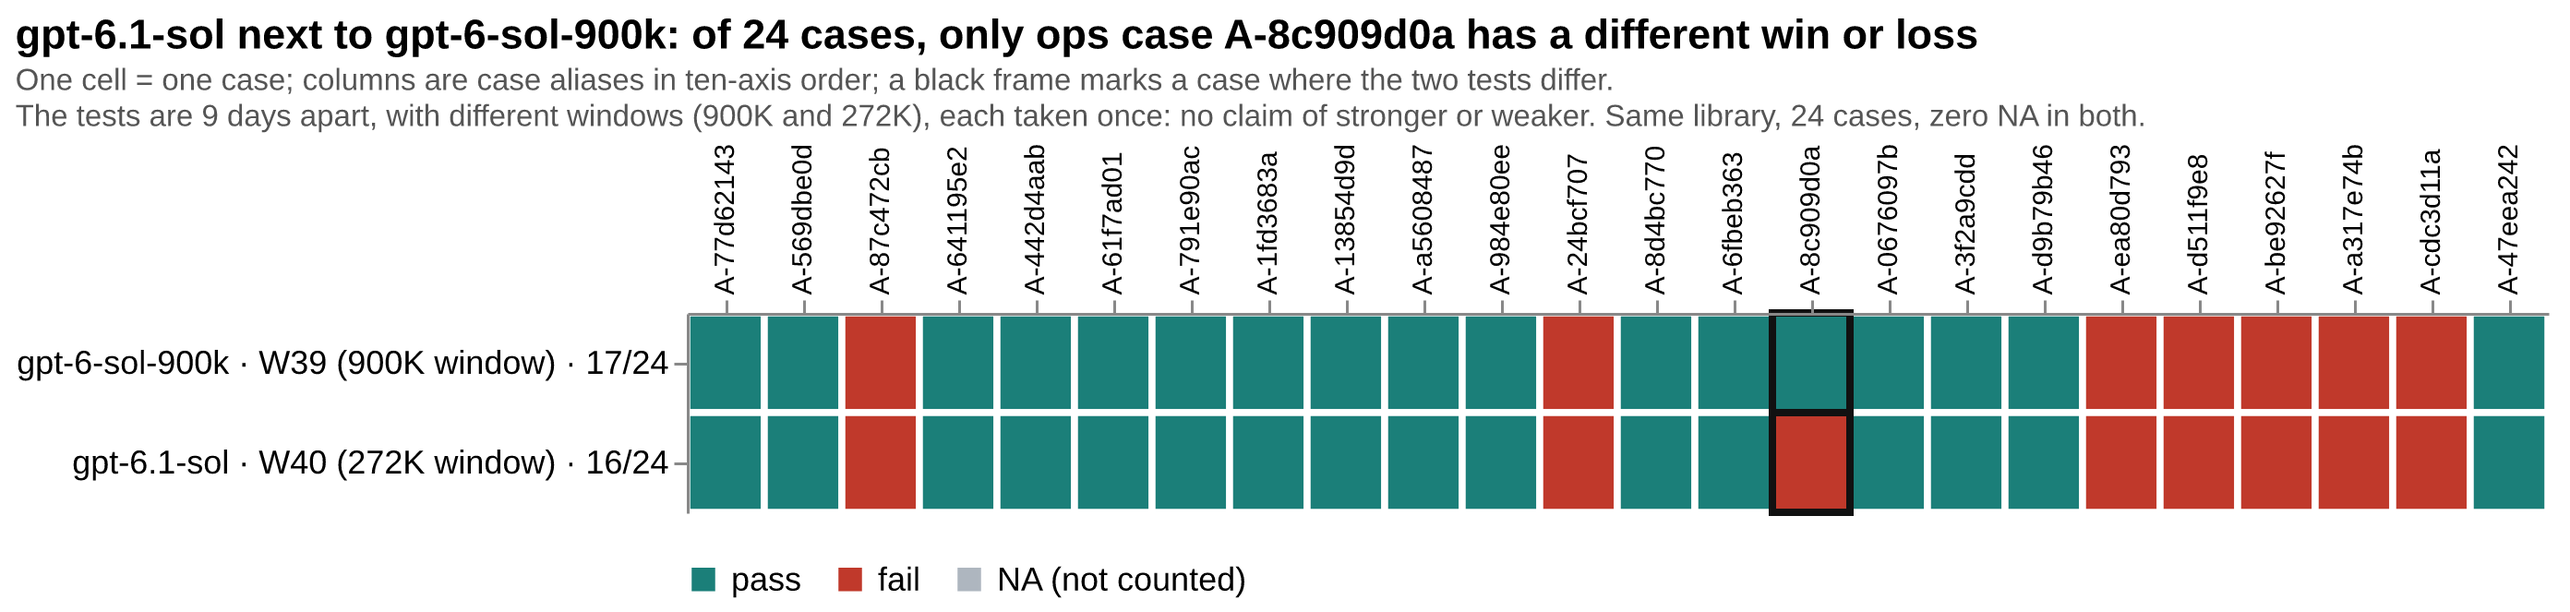
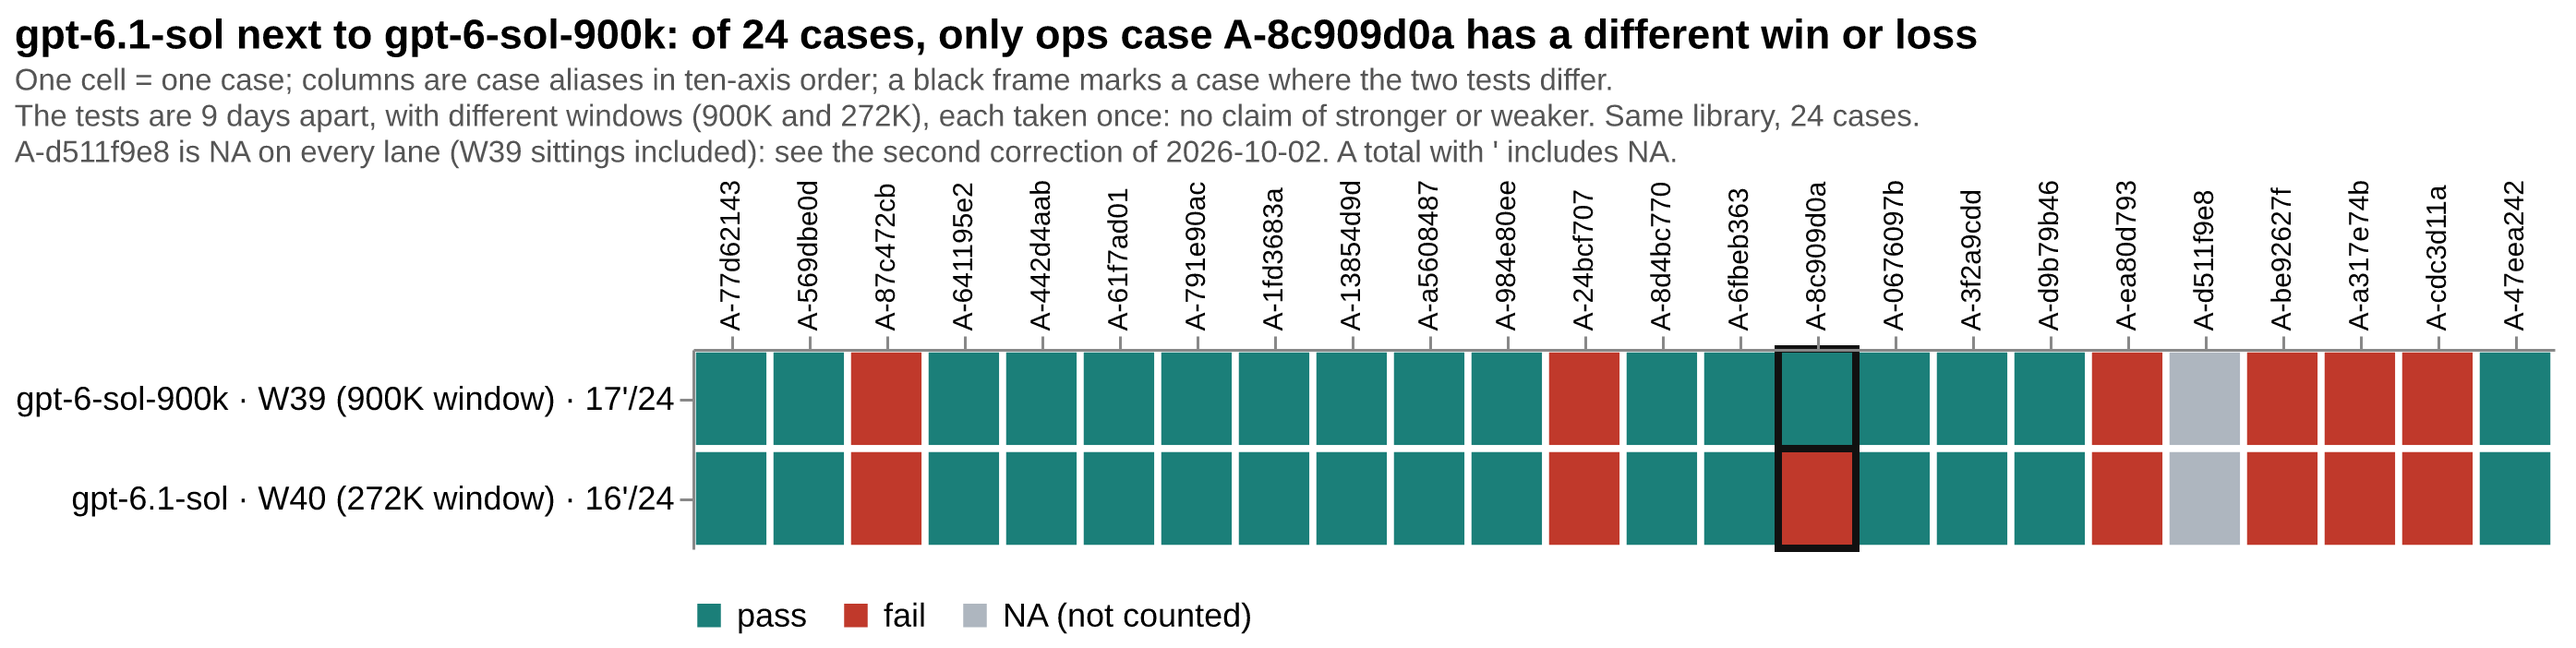
Correction 2026-10-02 (second): A-d511f9e8 is NA on every lane; W40 tables, figure and README updated
Pass counts and the denominator do not change; every total carries the apostrophe.

Changed region(s): [[0.0, 0.0302, 1.0, 0.8748], [0.25, 0.9351, 0.5, 0.9653]]

diff --git a/results/2026-W40.en.md b/results/2026-W40.en.md
@@ -1,15 +1,15 @@
 # 2026-W40 — gpt-6.1-sol, first full-library test
 
-**Summary**: gpt-6.1-sol took the full AMBER library (24 cases / 27 papers) for the first time on 2026-10-02, on the OpenAI Codex subscription lane at the high band. Result: **16 wins · 8 losses · 0 NA**, so **16/24**, with nothing on hold.
+**Summary**: gpt-6.1-sol took the full AMBER library (24 cases / 27 papers) for the first time on 2026-10-02, on the OpenAI Codex subscription lane at the high band. Result: **16 wins · 7 losses · 1 NA**, shown on the board as **16'/24**. The one NA is defense case A-d511f9e8: it is now NA on every lane (the exam-room grading of this case has problems; see the [correction](https://github.com/getaskclaw/amber/blob/main/docs/corrections-2026-10-02-a-d511f9e8.en.md)), and no pass count changes. Apart from that, nothing is on hold.
 
-Its predecessor on the same lane, gpt-6-sol-900k, scored 17/24 in W39 (see [W39](2026-W39.en.md)). The two tests differ in the win or loss of only one case: ops case A-8c909d0a passed in W39 and loses here at 3/7. The context window also differs: this test used the 272K basic window, while gpt-6-sol-900k used the 900K variant. **Read the two side by side; this page does not say 6.1 is stronger or weaker than 6.**
+Its predecessor on the same lane, gpt-6-sol-900k, was published at 17/24 in W39 (see [W39](2026-W39.en.md); 17'/24 with A-d511f9e8 now NA). The two tests differ in the win or loss of only one case: ops case A-8c909d0a passed in W39 and loses here at 3/7. The context window also differs: this test used the 272K basic window, while gpt-6-sol-900k used the 900K variant. **Read the two side by side; this page does not say 6.1 is stronger or weaker than 6.**
 
 - **Strengths**: coding 5/6 and delivery 3/3; requirements, convergence and UI all pass.
 - **Weak spots**: no passes on vision, defense or attribution, and two ops cases lost (A-24bcf707, A-8c909d0a). Review passes one case (A-47eea242); on the other, A-cdc3d11a, the fault-finding score is −1, with very few false alarms.
 
 This is a subscription lane with no price sheet, so no dollar cost is reported.
 
-![W40 case by case: gpt-6.1-sol and gpt-6-sol-900k (W39)](assets/2026-W40-strip.en.png?v=20261002)
+![W40 case by case: gpt-6.1-sol and gpt-6-sol-900k (W39)](assets/2026-W40-strip.en.png?v=20261002b)
 
 中文：[2026-W40.md](2026-W40.md)
 
@@ -27,7 +27,7 @@ This is a subscription lane with no price sheet, so no dollar cost is reported.
 | harness | AMBER agentic harness (Hermes); clean-room bench profile, offline container, a new working folder for each case, no fallback chain, at most 2 at a time |
 | wire verification | all sessions matched the model: 38 sessions (including two re-taken cases); zero 429 |
 | case set | AMBER full library v2026-09: **24 cases / 27 papers** (the requirements case is one case with four variants sharing one bundle); bundle hashes match the [amber hash-index](https://github.com/getaskclaw/amber) |
-| scoring | required checks only; a multi-variant case passes only if every variant passes; zero NA in this issue (nothing void, nothing on hold) |
+| scoring | required checks only; a multi-variant case passes only if every variant passes; one NA in this issue: A-d511f9e8 (on hold for every lane); nothing void, nothing else on hold |
 | cost | subscription quota lane, no price sheet, no dollar cost; the weekly quota went from 0% to about 2%; ≈10.37M tokens in total |
 | latency | median 179 s per case, p90 793 s, 7561 s in total |
 
@@ -58,12 +58,12 @@ Cases are listed by public alias; check them against the [amber hash-index](http
 | A-3f2a9cdd | Convergence | 4880adbea261 | ✓ |
 | A-d9b79b46 | UI | d6d63130ecc6 | ✓ 12/12 |
 | A-ea80d793 | Vision | 1d69841b029e | ✗ fault-finding 0 |
-| A-d511f9e8 | Defense | f725082a2dc8 | ✗ 4/12 |
+| A-d511f9e8 | Defense | f725082a2dc8 | ⊘ NA (held, re-sit pending) |
 | A-be92627f | Defense | 6593829abdfa | ✗ 4/9 |
 | A-a317e74b | Attribution | e05970e7d7c9 | ✗ 14/15 |
 | A-cdc3d11a | Review | dbb207a3118d | ✗ fault-finding −1 |
 | A-47eea242 | Review | b4b8d4bb44e3 | ✓ fault-finding 4 |
-| **total** | | | **16/24 wins · 8 losses · 0 NA** |
+| **total** | | | **16/24 wins · 7 losses · 1 NA** |
 
 <!-- matrix:end -->
 
@@ -80,10 +80,10 @@ Cases are listed by public alias; check them against the [amber hash-index](http
 |  | Convergence | 1/1 | 1.00 |
 | Judging | UI | 1/1 | 1.00 |
 |  | Vision | 0/1 | 0.44 |
-|  | Defense | 0/2 | 0.39 |
+|  | Defense | 0/2 · 1 NA | 0.44 |
 |  | Attribution | 0/1 | 0.93 |
 |  | Review | 1/2 | 0.61 |
-| | **total** | **16/24** |  |
+| | **total** | **16'/24** |  |
 
 Two readings of the same papers. **Passes** = cases passed / cases on the axis; a case passes only when every required check passes. This is the [askclaw.dev](https://askclaw.dev/en/rank/) board metric. **Completion** = 0–1, prorated by required checks, so a failed case still earns the share it got right; review and vision are prorated from the fault-finding score. NA cases count in neither. Most axes hold one or two cases, so one case can move the reading.
 
@@ -91,11 +91,11 @@ Two readings of the same papers. **Passes** = cases passed / cases on the axis; 
 
 ## Side by side with gpt-6-sol-900k (W39)
 
-The W39 page is [2026-W39.en.md](2026-W39.en.md). The table below lists only the cases where the two tests differ. On the other 21 cases, both tests have the same win or loss.
+The W39 page is [2026-W39.en.md](2026-W39.en.md). The table below lists only the cases where the two tests differ. On the other 21 cases, both tests have the same win or loss (A-d511f9e8 is NA in both).
 
 | | gpt-6-sol-900k (W39, 900K window) | gpt-6.1-sol (W40, 272K window) |
 |---|---|---|
-| total | 17/24 | 16/24 |
+| total | 17'/24 (published as 17/24; A-d511f9e8 now NA) | 16'/24 |
 | A-8c909d0a (ops) | ✓ | ✗ 3/7 |
 | A-cdc3d11a (review) | ✗ fault-finding −0.5 | ✗ fault-finding −1 |
 | A-ea80d793 (vision) | ✗ fault-finding 1.0 | ✗ fault-finding 0.0 |
@@ -104,7 +104,7 @@ How to read it: the two tests are 9 days apart, with different windows, and each
 
 ## Findings
 
-1. **16/24 with nothing on hold, one case from the predecessor.** Of the 24 cases, only A-8c909d0a has a different win or loss from gpt-6-sol-900k (W39). The other 23 cases have the same result.
+1. **16'/24, nothing on hold apart from A-d511f9e8, one case from the predecessor.** Of the 24 cases, only A-8c909d0a has a different win or loss from gpt-6-sol-900k (W39). The other 23 cases have the same result.
 2. **On the judging side, review is the bright spot; vision, defense and attribution are still weak.** Review case A-47eea242 passes, and A-cdc3d11a scores −1, with very few false alarms; the three amber-claude lanes score −2 to −35 on that case (see [amber-claude W40](https://github.com/getaskclaw/amber-claude/blob/main/results/2026-W40.en.md), same day, same library). Attribution case A-a317e74b is 14/15, one check short, the same as gpt-6-sol-900k (W39). Vision case A-ea80d793 scores 0.0: the screenshot was delivered and 3 problems were found, but penalties cancel them out to 0.0, below the line. Defense cases: A-d511f9e8 4/12 and A-be92627f 4/9.
 3. **Two ops cases lost.** A-24bcf707 4/5 (gpt-6-sol-900k also failed it in W39), and A-8c909d0a 3/7 (passed in W39).
 4. **Coding case A-87c472cb is still 6/8.** Every lane falls into this one; gpt-6-sol-900k (W39) also scored 6/8.
@@ -122,4 +122,4 @@ How to read it: the two tests are 9 days apart, with different windows, and each
 
 ## Verdict
 
-gpt-6.1-sol @ OpenAI Codex subscription lane: 16/24 with nothing on hold. It is strong on the building side (coding 5/6, delivery 3/3, and requirements, convergence and UI all pass), and still weak on the judging side (no passes on vision, defense or attribution; review passes one case). Next to gpt-6-sol-900k (17/24 in W39), only one ops case differs, and the windows differ too (272K against 900K), so this page does not say 6.1 is stronger or weaker than 6. For work that looks at screenshots, defense work and attribution work, keep a person in the loop to check the result.
+gpt-6.1-sol @ OpenAI Codex subscription lane: 16'/24 with nothing on hold apart from A-d511f9e8. It is strong on the building side (coding 5/6, delivery 3/3, and requirements, convergence and UI all pass), and still weak on the judging side (no passes on vision, defense or attribution; review passes one case). Next to gpt-6-sol-900k (17'/24 in W39), only one ops case differs, and the windows differ too (272K against 900K), so this page does not say 6.1 is stronger or weaker than 6. For work that looks at screenshots, defense work and attribution work, keep a person in the loop to check the result.

diff --git a/README.en.md b/README.en.md
@@ -1,5 +1,7 @@
 # amber-gpt
 
+> ⚠ **Correction (2026-10-02, second)**: one defense-axis case, A-d511f9e8, is now NA on every lane (the exam room did not grade the file the candidate delivered, and the grader asks for something the task text does not say). The denominator and the **number of passed cases do not change**; every lane's total now carries `'`. In this repo's issue tables, read that cell as NA. Everything else stays as published; the [correction notice](https://github.com/getaskclaw/amber/blob/main/docs/corrections-2026-10-02-a-d511f9e8.en.md) governs.
+
 > Correction for 5.6-luna: W37 high base plus W39 high make-up; 16'/24 = 16 wins · 4 losses · 4 held. First public announcement of three exonerated_infra rulings, capability scores withheld; A-ea80d793 stays held. [Details](results/2026-W38-correction-luna-high.en.md). This does not change GPT-6 results. ' = contested (held for safety refusal) or invalid (infrastructure-related (test harness or scoring environment) cases: held, void or awaiting re-scoring); neither counts as a win or a loss. Every lane with NA carries an apostrophe, including frozen display rows; a hold does not settle the cause.
 
 Weekly public benchmark results of GPT-family models (across reasoning-effort band (the thinking-effort setting)s) on the private **AMBER** suite — cases private, results public.
@@ -29,8 +31,8 @@ The same model on the same provider can score differently across runs — servin
 
 ## Charts
 
-- **Report card** (2026-W40, 24-case library): gpt-6.1-sol, first full-library test, **16/24** with nothing on hold. Only one case has a different win or loss from its predecessor gpt-6-sol-900k (W39, 17/24): ops case A-8c909d0a. The context windows also differ (272K against 900K), so read the two side by side; this does not show that one is stronger or weaker. No passes on vision, defense or attribution; review passes one case. See [W40](results/2026-W40.en.md).
-  ![W40 case by case: gpt-6.1-sol and gpt-6-sol-900k (W39)](results/assets/2026-W40-strip.en.png?v=20261002)
+- **Report card** (2026-W40, 24-case library): gpt-6.1-sol, first full-library test, **16'/24** with nothing on hold apart from A-d511f9e8. Only one case has a different win or loss from its predecessor gpt-6-sol-900k (W39, 17'/24): ops case A-8c909d0a. The context windows also differ (272K against 900K), so read the two side by side; this does not show that one is stronger or weaker. No passes on vision, defense or attribution; review passes one case. See [W40](results/2026-W40.en.md).
+  ![W40 case by case: gpt-6.1-sol and gpt-6-sol-900k (W39)](results/assets/2026-W40-strip.en.png?v=20261002b)
 - **Report card** (2026-W39, 24-case library): first full run the day after the 6-series launch — gpt-6-sol-900k **17/24**, gpt-6-astra-900k **16/24** (same-day control), gpt-6-luna-900k **15/24**; sol ties the cross-repo leader (opus-5.5: 17 wins · 6 losses · 1 case void due to infrastructure; see its correction, see [amber-claude W39](https://github.com/getaskclaw/amber-claude/blob/main/results/2026-W39-correction.en.md)), and the 5.6-era family pattern "luna ≥ sol" flips in the 6 series. See [W39](results/2026-W39.en.md).
   ![W39 board composition](results/assets/2026-W39-composition.en.png)
 - **Per-axis head-to-head** (2026-W39): the three 6-series siblings same-day plus the 5.6 predecessor side by side — gains on the judge faces (defect-hunt / attribution / review — axes about finding faults in others' work): attribution 0.47→0.93, review 0.22→0.64 (vs the 5.6 predecessor; 0 = all wrong, 1 = perfect); vision remains the heirloom weakness (vision case score sol 1.0 / luna −2; ≥ 2 passes, neither does).
@@ -54,7 +56,7 @@ The same model on the same provider can score differently across runs — servin
 | [2026-W38 correction notice](results/2026-W38-correction.en.md) | W38 full-library review: 12 cells reversed · 14 held in this repo | Eight W36 astra max/xhigh cells exonerated (published marks to be flipped); 14 W37 luna/sol cells held; 1 W38 Add4 cell + 3 sol re-test cells exonerated |
 | [5.6-luna high display correction](results/2026-W38-correction-luna-high.en.md) | W37 high base 2026-09-07 + W39 high make-up 2026-09-21 | 16'/24: 16 wins · 4 losses · 4 held; UI / Vision / Review NA; high only, not max |
 | [2026-W39](results/2026-W39.en.md) | gpt-6-sol-900k + gpt-6-luna-900k @ high first full run + gpt-6-astra-900k same-day control (24 cases, day after the 6-series launch) | sol **17/24** ties the cross-repo leader opus-5.5; astra same-day control 16/24 (double-run pair, zero flips); luna 15/24; the "luna ≥ sol" family pattern flips in the 6 series; gains on the judge faces (attribution 0.47→0.93, review 0.22→0.64), vision still the weakness (1.0 / −2, both below the line); harness now hard-fails on brain mismatch |
-| [2026-W40](results/2026-W40.en.md) | gpt-6.1-sol @ high first full run (24 cases, 2026-10-02) | **16/24** with nothing on hold; only ops case A-8c909d0a has a different win or loss from gpt-6-sol-900k (W39, 17/24), and the windows differ (272K against 900K), so read them side by side, not as stronger or weaker; no passes on vision, defense or attribution, review passes one case; image v2 adds PyYAML, and the paper gate is off for the brand case only |
+| [2026-W40](results/2026-W40.en.md) | gpt-6.1-sol @ high first full run (24 cases, 2026-10-02) | **16'/24** with nothing on hold apart from A-d511f9e8; only ops case A-8c909d0a has a different win or loss from gpt-6-sol-900k (W39, 17'/24), and the windows differ (272K against 900K), so read them side by side, not as stronger or weaker; no passes on vision, defense or attribution, review passes one case; image v2 adds PyYAML, and the paper gate is off for the brand case only |
 
 ## Disclaimer
 

diff --git a/README.md b/README.md
@@ -1,5 +1,7 @@
 # amber-gpt
 
+> ⚠ **更正（2026-10-02，另一项）**：防御轴的一案 A-d511f9e8 在所有车道上改记 NA（考场判的不是考生交付的文件，判分还要求了题面没写的事）。分母不变，**过案数不变**，每条道的总分都带 `'`。本仓各期成绩表里这一格请按 NA 读，其余内容保留原样，以[更正声明](https://github.com/getaskclaw/amber/blob/main/docs/corrections-2026-10-02-a-d511f9e8.md)为准。
+
 > 5.6-luna 展示更正：W37 high 基线加 W39 同档补测；16'/24 = 16 胜 · 4 负 · 4 挂起。首次公开三案 exonerated_infra 改判、能力分暂停采用；A-ea80d793 维持挂起。见 [更正](results/2026-W38-correction-luna-high.md)。GPT-6 成绩不动。 ' = contested（安全拒答挂起）或 invalid（基建相关（考场 harness 或判分环境）的挂起、作废或待重评），均不计胜负；所有含 NA 的道都带撇号，包括冻结展示行；挂起不表示死因已定。
 
 用私有题库 **AMBER** 每周实测 GPT 系模型（含不同推理档位），只公开结果，不公开题目。
@@ -29,8 +31,8 @@ English: [README.en.md](README.en.md)
 
 ## 图说数据
 
-- **本期成绩单**（2026-W40，24 案全库）：gpt-6.1-sol 全库首考 **16/24**，零挂起。与前辈 gpt-6-sol-900k（W39，17/24）只有运维案 A-8c909d0a 的胜负不同；两场的窗口也不同（272K 对 900K），并列看，不据此判断强弱。视觉、防御、归因没有过案，审查过 1 案。详见 [W40](results/2026-W40.md)。
-  ![W40 逐案对照：gpt-6.1-sol 与 gpt-6-sol-900k（W39）](results/assets/2026-W40-strip.zh.png?v=20261002)
+- **本期成绩单**（2026-W40，24 案全库）：gpt-6.1-sol 全库首考 **16'/24**，除 A-d511f9e8 外零挂起。与前辈 gpt-6-sol-900k（W39，17'/24）只有运维案 A-8c909d0a 的胜负不同；两场的窗口也不同（272K 对 900K），并列看，不据此判断强弱。视觉、防御、归因没有过案，审查过 1 案。详见 [W40](results/2026-W40.md)。
+  ![W40 逐案对照：gpt-6.1-sol 与 gpt-6-sol-900k（W39）](results/assets/2026-W40-strip.zh.png?v=20261002b)
 - **成绩单**（2026-W39，24 案全库）：6 系发布次日全库首考——gpt-6-sol-900k **17/24**、gpt-6-astra-900k **16/24**（同日对照）、gpt-6-luna-900k **15/24**；sol 追平跨仓榜首（opus-5.5：17 胜 · 6 负 · 1 案基建作废，见其更正刊，见 [amber-claude W39](https://github.com/getaskclaw/amber-claude/blob/main/results/2026-W39-correction.md)），5.6 时代「luna ≥ sol」的家族规律在 6 系翻转。详见 [W39](results/2026-W39.md)。
   ![W39 榜单构成](results/assets/2026-W39-composition.zh.png)
 - **逐轴对拍**（2026-W39）：6 系三兄弟同日 + 5.6 前辈并排——收益在「判官」面（找茬/归因/审查这类挑别人毛病的轴）：归因 0.47→0.93、审查 0.22→0.64（对照 5.6 前辈，0=全错、1=满分）；视觉轴仍是祖传短板（视觉案打分 sol 1.0 / luna −2，≥2 才算过线，两家都没过）。
@@ -54,7 +56,7 @@ English: [README.en.md](README.en.md)
 | [2026-W38 更正特刊](results/2026-W38-correction.md) | W38 全库复核:本仓改判 12 格 · 挂起 14 格 | W36 astra max/xhigh 8 格平反(公开旧值应改钩);W37 luna/sol 14 格挂起;W38 Add4 1 格 + sol 复测 3 格平反 |
 | [5.6-luna high 展示更正](results/2026-W38-correction-luna-high.md) | W37 high 基线 2026-09-07 + W39 high 补测 2026-09-21 | 16'/24：16 胜 · 4 负 · 4 挂起；UI／视觉／审查 NA；十轴只用 high，不再混 max |
 | [2026-W39](results/2026-W39.md) | gpt-6-sol-900k + gpt-6-luna-900k @ high 全库首考 + gpt-6-astra-900k 同日对照（24 案，6 系首发次日） | sol **17/24** 追平跨仓榜首 opus-5.5；astra 同日对照 16/24（双跑对零翻转）；luna 15/24；家族规律「luna≥sol」在 6 系翻转；收益在判官面（归因 0.47→0.93、审查 0.22→0.64），视觉轴仍是短板（1.0 / −2 均未过线）；harness 起焊死验脑硬闸 |
-| [2026-W40](results/2026-W40.md) | gpt-6.1-sol @ high 全库首考（24 案，2026-10-02） | **16/24**，零挂起；与 gpt-6-sol-900k（W39，17/24）只有运维案 A-8c909d0a 的胜负不同，窗口 272K 对 900K，并列看，不据此判断强弱；视觉、防御、归因没有过案，审查过 1 案；镜像 v2 加 PyYAML，品牌题单题关考卷闸 |
+| [2026-W40](results/2026-W40.md) | gpt-6.1-sol @ high 全库首考（24 案，2026-10-02） | **16'/24**，除 A-d511f9e8 外零挂起；与 gpt-6-sol-900k（W39，17'/24）只有运维案 A-8c909d0a 的胜负不同，窗口 272K 对 900K，并列看，不据此判断强弱；视觉、防御、归因没有过案，审查过 1 案；镜像 v2 加 PyYAML，品牌题单题关考卷闸 |
 
 ## 免责
 
